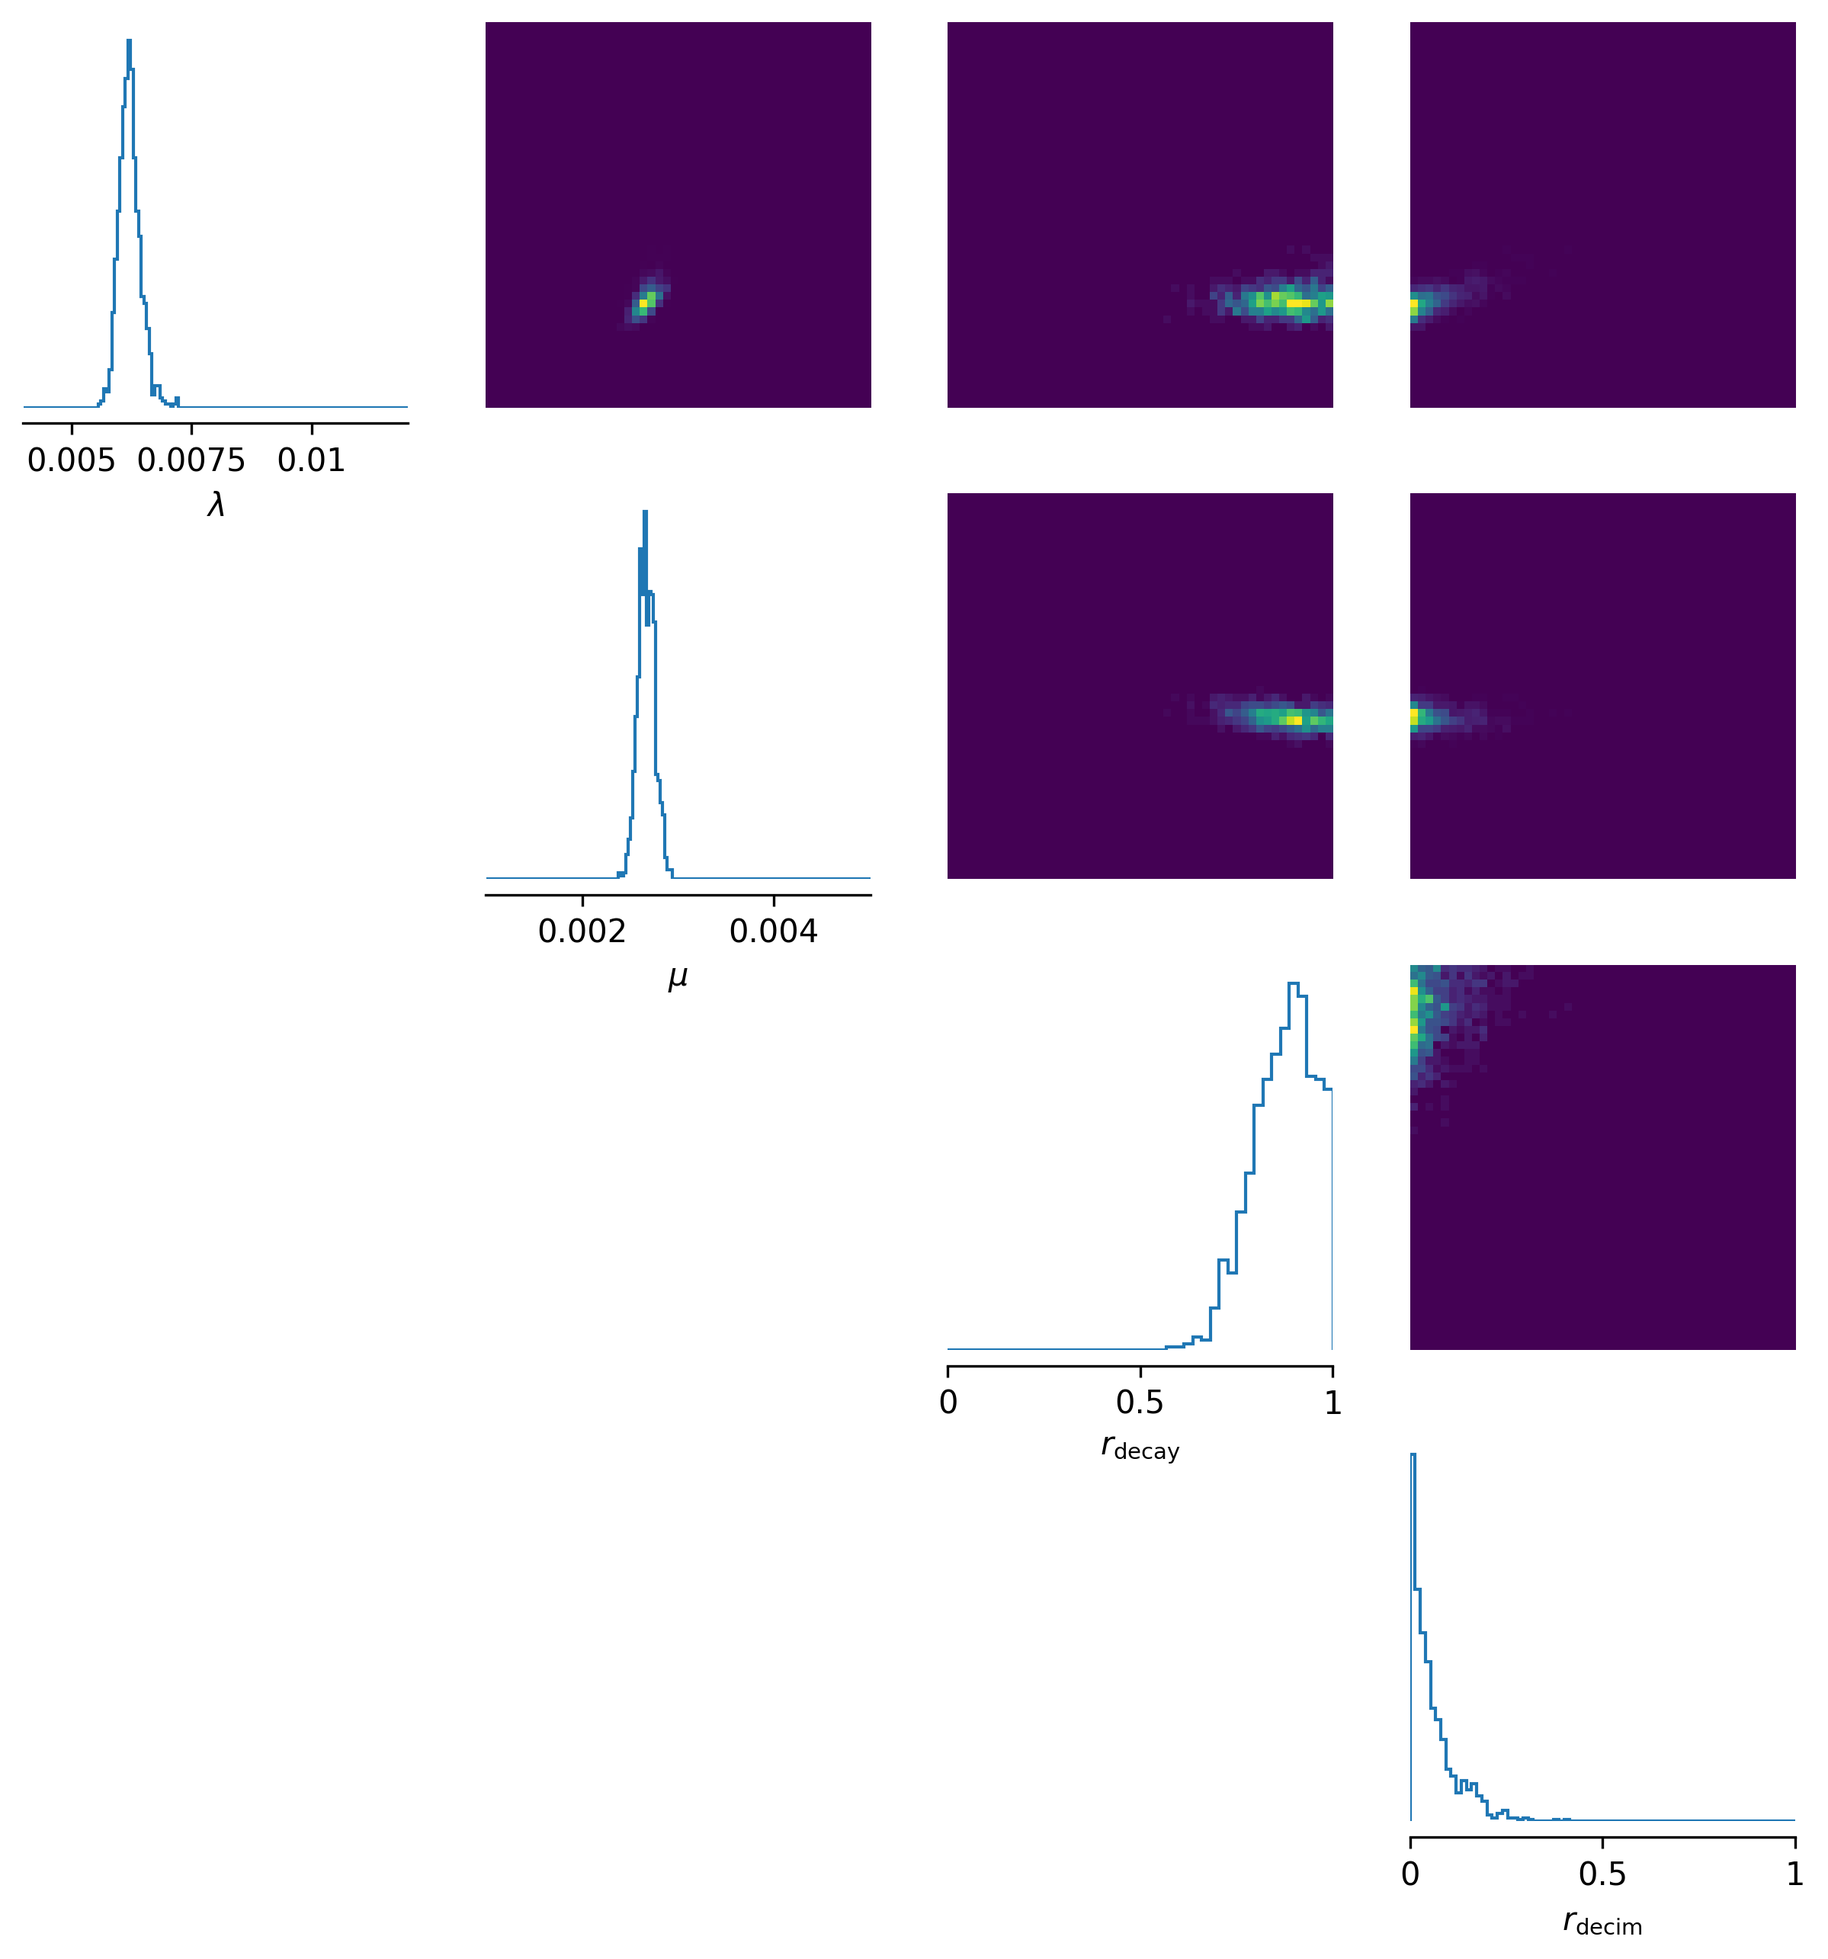
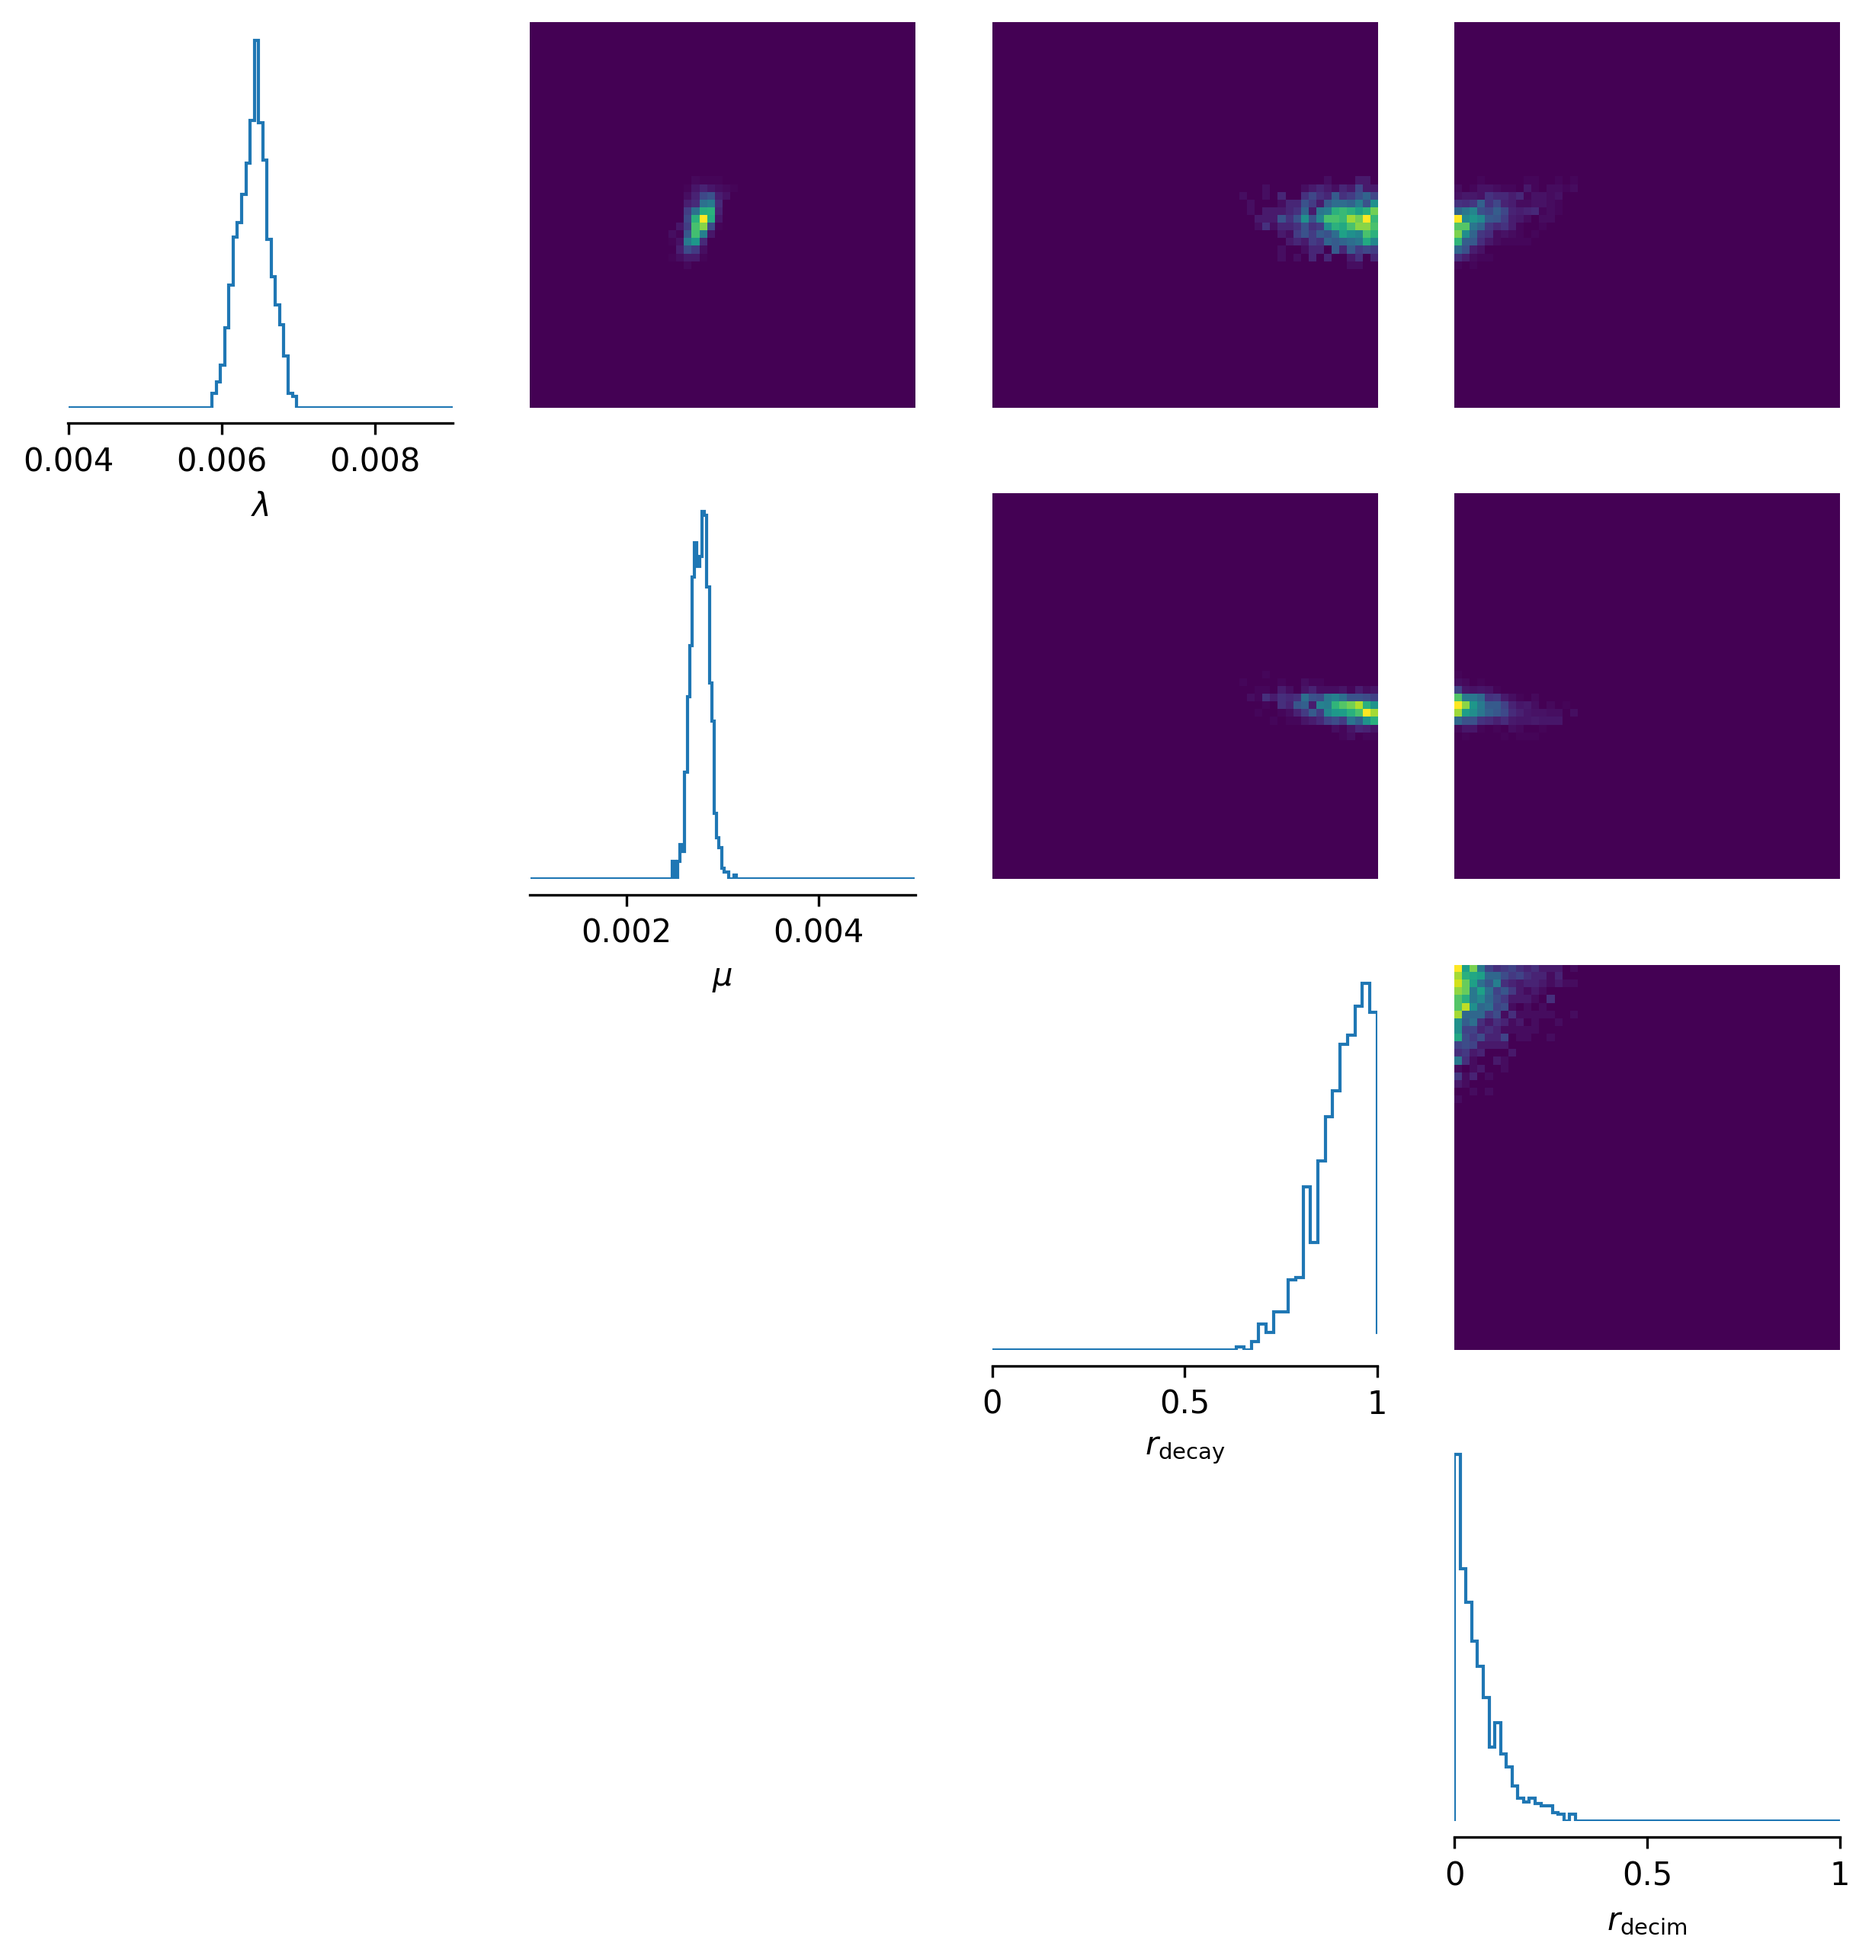
limits

diff --git a/plot_results.py b/plot_results.py
@@ -314,7 +314,7 @@ x_obs_empirical = list(x_obs0.values()) + add_f1 + add_f2[:17]
 random.shuffle(x_obs_empirical)
 
 lambda_min_prior = 4.*10**(-3)
-lambda_max_prior = 12.*10**(-3)
+lambda_max_prior = 9.*10**(-3)
 
 mu_min_prior = 1.*10**(-3)
 mu_max_prior = 5*10**(-3)
